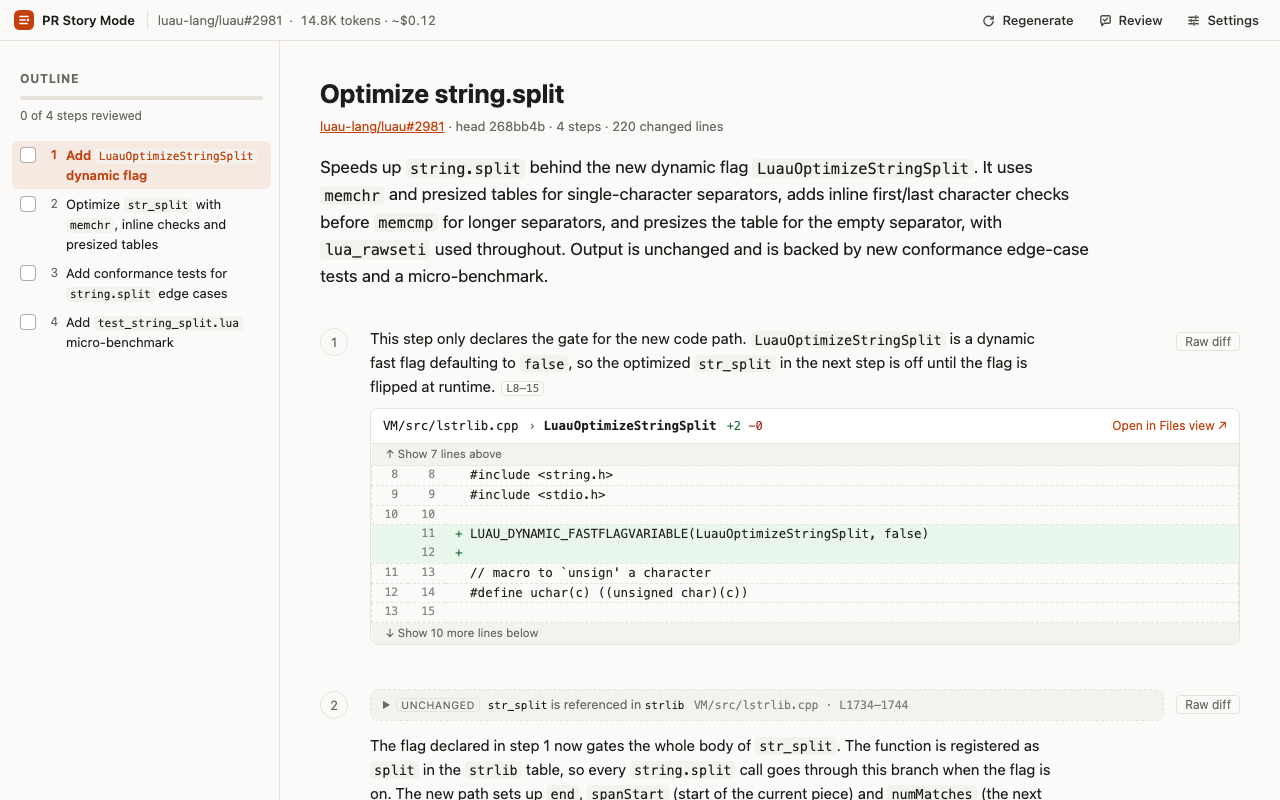
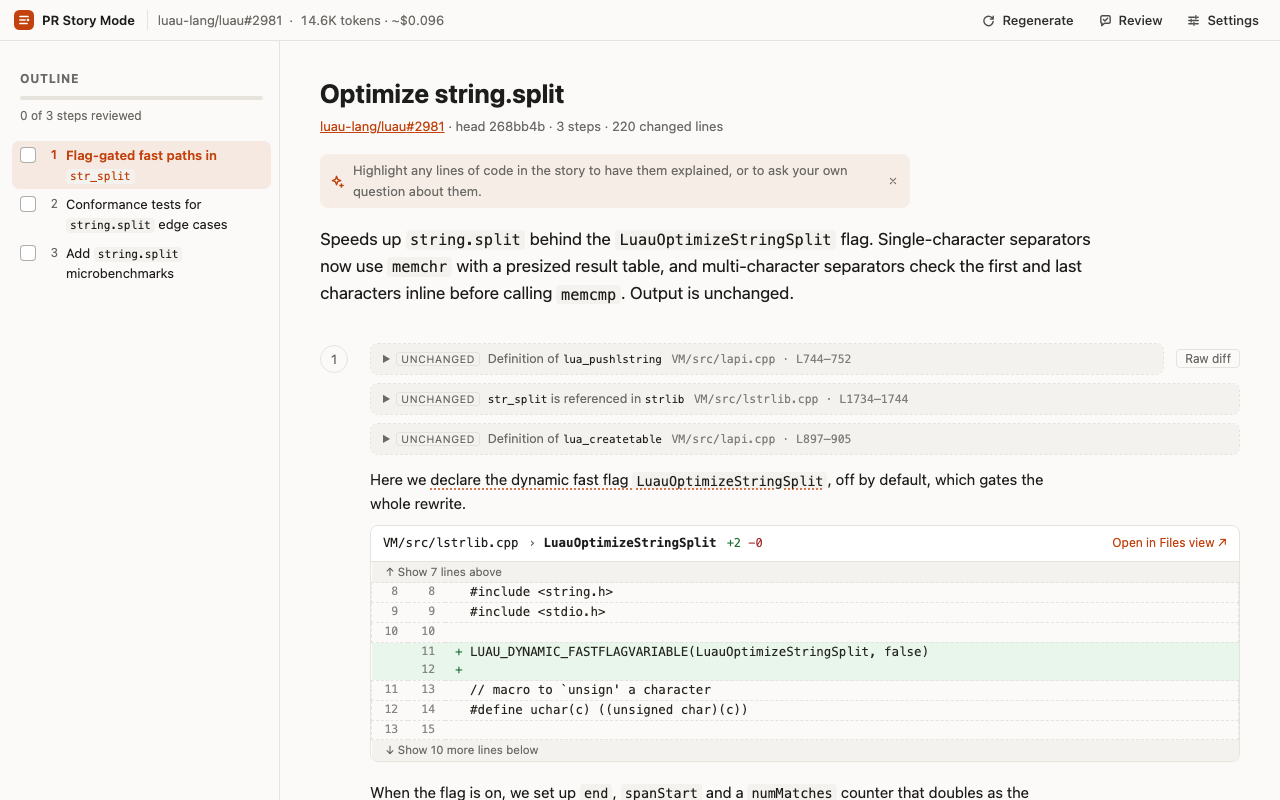
Retake the store and README screenshots
The screenshots now come from a story written by the current version,
so they show word links in the explanations, the highlight tip, and
the Mark step reviewed button. The README's image is screenshot 1.

diff --git a/packages/extension/store/STORE.md b/packages/extension/store/STORE.md
@@ -45,7 +45,7 @@ There are no servers, accounts or analytics. Your settings and keys stay in your
 |---|---|---|
 | Store icon | `../icons/icon-128.png` (also inside the zip) | 128×128 |
 | Screenshot 1 | `screenshot-1.png`: summary, outline and the first step | 1280×800 |
-| Screenshot 2 | `screenshot-2.png`: lines selected, with the "Explain 6 lines" / "Ask…" bar | 1280×800 |
+| Screenshot 2 | `screenshot-2.png`: lines selected, with the "Explain 5 lines" / "Ask…" bar | 1280×800 |
 | Screenshot 3 | `screenshot-3.png`: dark theme, re-indented lines folded | 1280×800 |
 | Screenshot 4 | `screenshot-4.png`: model settings (Anthropic, OpenAI, gateway, none) | 1280×800 |
 | Screenshot 5 | `screenshot-5.png`: appearance settings with live preview | 1280×800 |
